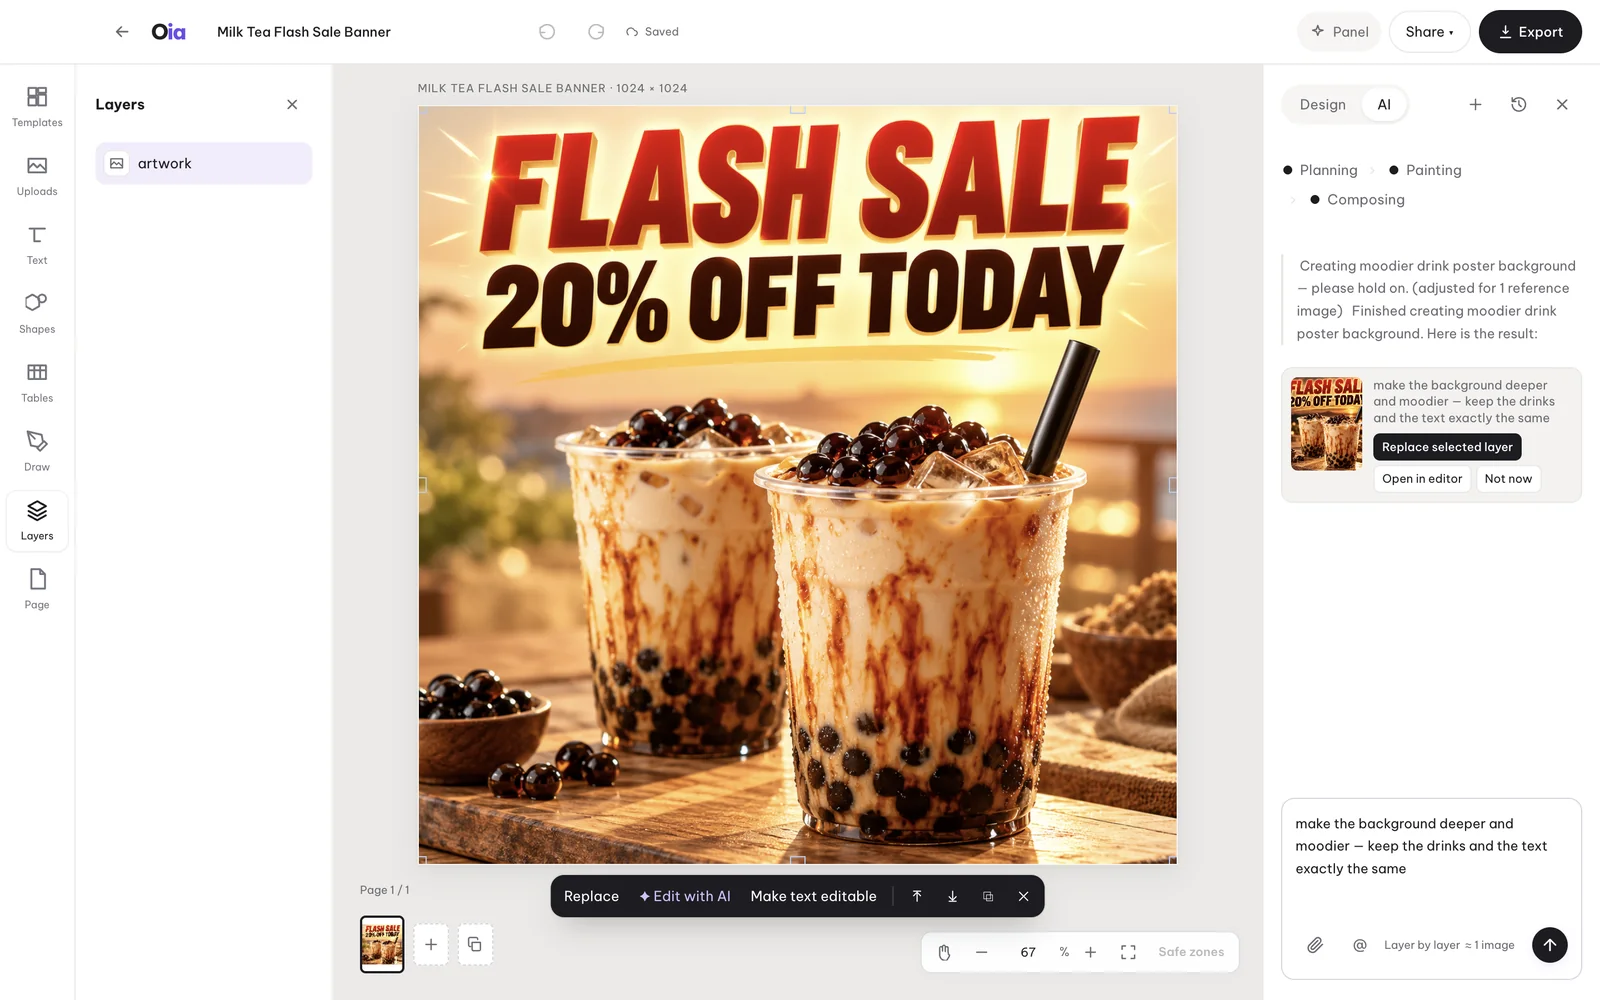
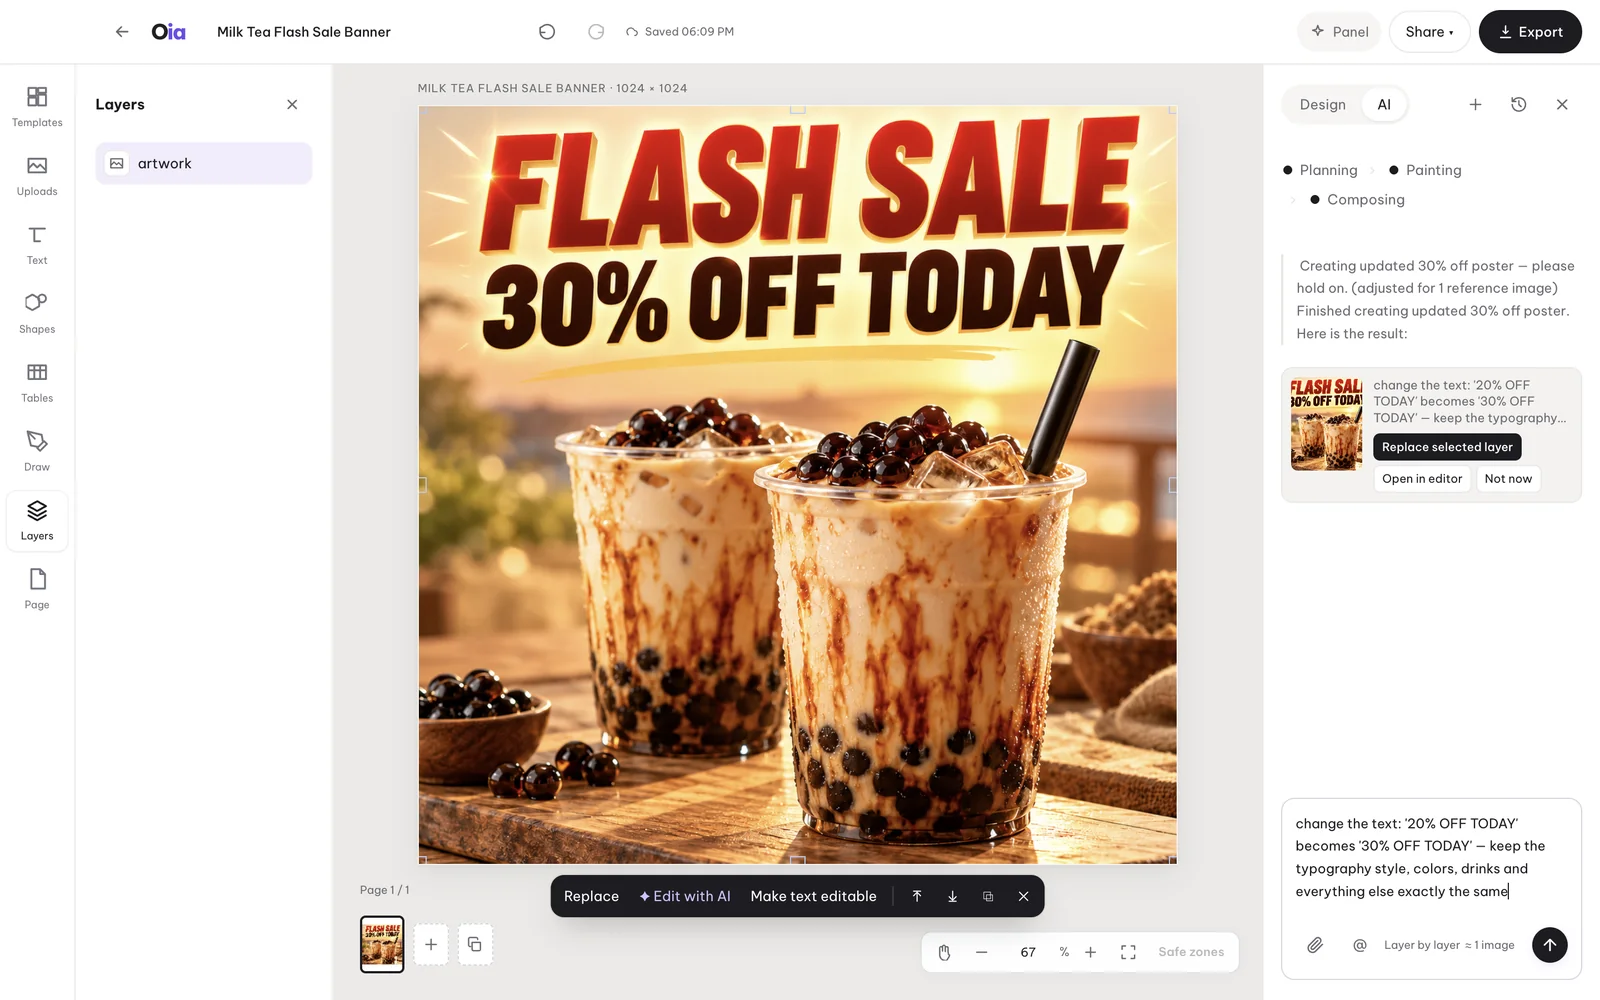
feat(landing): workflow frame = the SurgePix lane proof — change the price, keep the style
The frame now shows the live-verified repaint: '20% OFF TODAY' ->
'30% OFF TODAY' with the glossy 3D typography and drinks untouched,
variant card + Replace selected layer. Step 03 telemetry updated to
the same story; cache-busted ?v=d16c. qa-shots re-shot.

diff --git a/site/index.html b/site/index.html
@@ -171,7 +171,7 @@
       <div class="step">
         <div class="num">03 — MAKE IT YOURS</div>
         <h3>Edit the layers</h3>
-        <div class="log"><div>layers panel · design inspector</div><div>ai edit → preview → <b>replace one layer</b></div><div class="trust-line">origin: user — AI never deletes</div></div>
+        <div class="log"><div>layers panel · design inspector</div><div>change the price → <b>repaint keeps the style</b></div><div class="trust-line">preview first — apply only what you keep</div></div>
       </div>
       <div class="step">
         <div class="num">04 — PRODUCE</div>
@@ -180,8 +180,8 @@
       </div>
     </div>
     <div class="editor-frame">
-      <img loading="lazy" src="assets/editor.webp?v=d16b" alt="Oia editor, AI tab: the banner’s glossy baked typography stays untouched while a variant card — “make the background deeper and moodier” — waits to replace the selected image layer" width="1600" height="1000">
-      <span class="cap mono">real editor · AI variants — apply only what you keep</span>
+      <img loading="lazy" src="assets/editor.webp?v=d16c" alt="Oia editor: “change '20% OFF TODAY' to '30% OFF TODAY'” — the repaint keeps the glossy 3D typography and the drinks; the variant card waits to replace the artwork layer" width="1600" height="1000">
+      <span class="cap mono">real editor · change the price, keep the style</span>
     </div>
   </div>
 </section>
